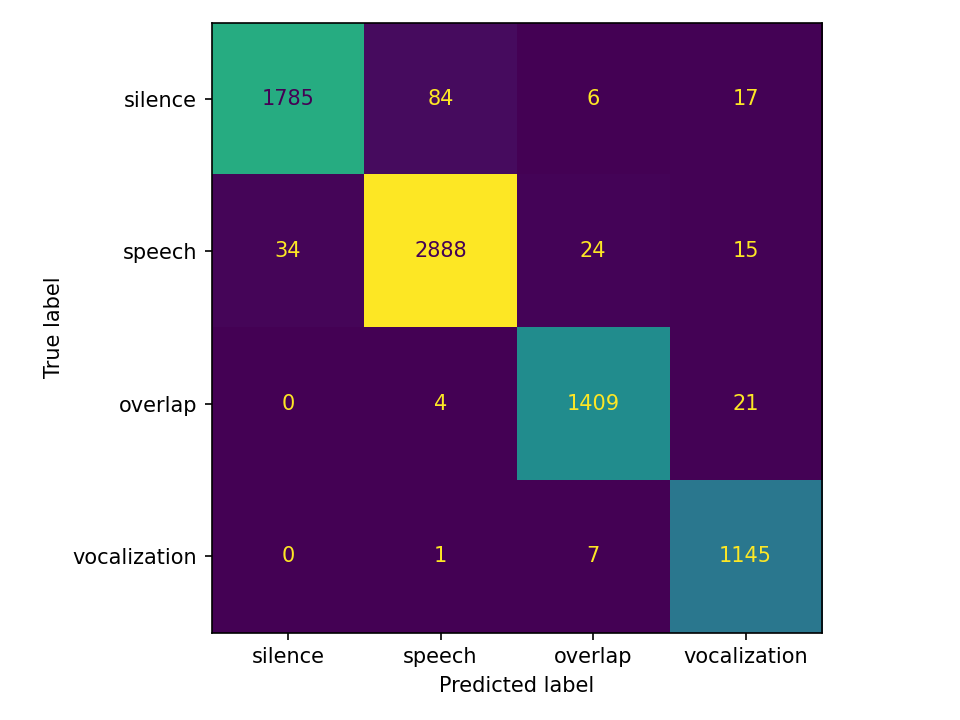
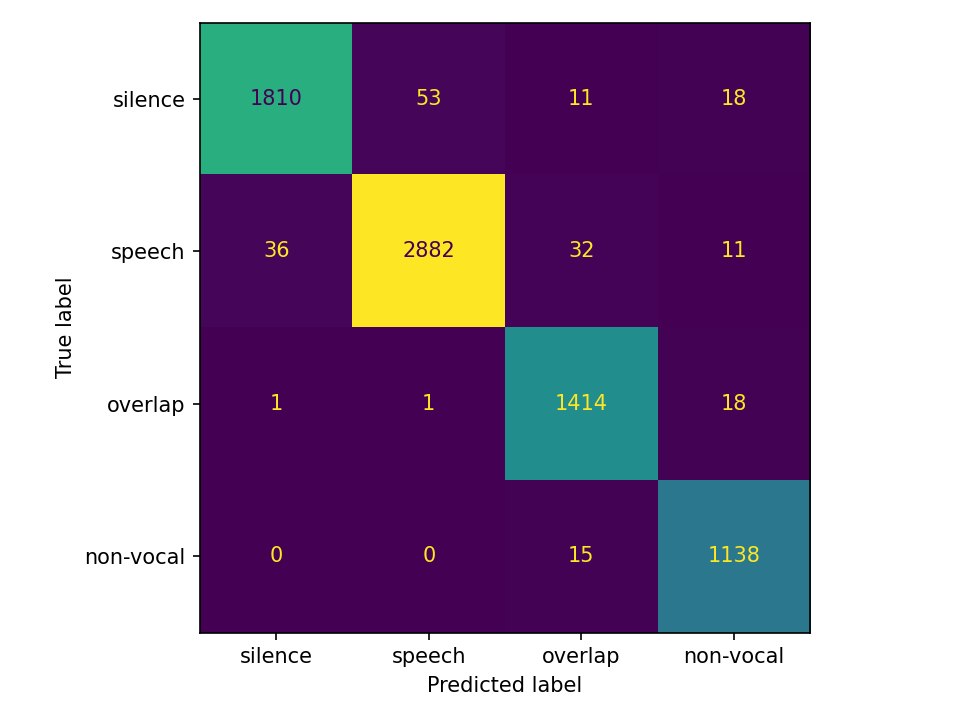
Non-vocal addition + README.md dependencies and evaluation updated

diff --git a/demo.py b/demo.py
@@ -18,10 +18,10 @@ CLASS_COLORS = {
     0: "#1f77b4",  # blue: silence
     1: "#2ca02c",  # green: speech
     2: "#d62728",  # red: overlap
-    3: "#ff7f0e",  # orange: vocalization
+    3: "#ff7f0e",  # orange: non-vocal
 }
 
-CLASS_NAMES = ["silence", "speech", "overlap", "vocalization"]
+CLASS_NAMES = ["silence", "speech", "overlap", "non-vocal"]
 
 
 def load_model(model_path, device):
@@ -79,15 +79,17 @@ def run_inference(audio_path, model, device, sample_rate,
     with torch.no_grad():
         for start in range(0, len(y) - frame_length, hop_length):
             frame = y[start:start + frame_length]
-
-            if np.sqrt(np.mean(frame ** 2)) < 0.001:
+ 
+            if np.sqrt(np.mean(frame ** 2)) < 0.003:
                 context.append(np.zeros(128, dtype=np.float32))
                 predictions.append(0)
                 confidences.append(np.array([1.0, 0.0, 0.0, 0.0]))
-                frame_times.append(start / sample_rate)
                 continue
 
-            features = (extract_features(frame, sr=sample_rate) - mean) / std
+            window = np.hanning(len(frame)).astype(np.float32)
+            frame_windowed = frame * window
+            features = (extract_features(frame_windowed, sr=sample_rate) - mean) / std
+
             context.append(features)
 
             # Stack context window into sequence tensor

diff --git a/ml/labeling/label_ami.py b/ml/labeling/label_ami.py
@@ -8,9 +8,9 @@ from config import SAMPLE_RATE, FRAME_MS
 
 FRAME_SIZE = int(SAMPLE_RATE * FRAME_MS / 1000)  # 480 samples
 
-AMI_AUDIO_DIR = "train_data/audio/ami/amicorpus"
-AMI_WORDS_DIR = "train_data/audio/ami/ami_public_manual_1.6.2/words"
-OUTPUT_CSV    = "train_data/labels/ami_labels.csv"
+AMI_AUDIO_DIR = "training/train_data/audio/ami/amicorpus"
+AMI_WORDS_DIR = "training/train_data/audio/ami/ami_public_manual_1.6.2/words"
+OUTPUT_CSV    = "training/train_data/labels/ami_labels.csv"
 
 MEETINGS = [
     "ES2008a", "ES2008b", "ES2008c", "ES2008d",
@@ -69,7 +69,7 @@ def label_meeting(meeting_id: str) -> list[dict]:
     Label priority:
         overlap      — 2+ speakers have a word active in this frame
         speech       — exactly 1 speaker has a word active
-        vocalization — 1 speaker has a vocalsound, no words active for anyone
+        non-vocal    — 1 speaker or background has a vocalsound, no words active for anyone
         silence      — nothing active
     """
 
@@ -150,7 +150,7 @@ def label_meeting(meeting_id: str) -> list[dict]:
         elif sc == 1:
             label = "speech"
         elif vc >= 1:
-            label = "vocalization"
+            label = "non-vocal"
         else:
             label = "silence"
 
@@ -189,11 +189,11 @@ def run():
         "silence":       3_000,
         "speech":        8_000,
         "overlap":       8_000,   # capped to match speech
-        "vocalization":  3_000,
+        "non-vocal":     3_000,
     }
 
     balanced_parts = []
-    for label in ["silence", "speech", "overlap", "vocalization"]:
+    for label in ["silence", "speech", "overlap", "non-vocal"]:
         subset = df[df["label"] == label]
         if len(subset) == 0:
             print(f"  WARNING: no rows for label '{label}'")

diff --git a/ml/dataset.py b/ml/dataset.py
@@ -1,17 +1,19 @@
 import numpy as np
-import pandas as pd
 import librosa
 import torch
 from torch.utils.data import Dataset
 from pathlib import Path
 from config import SAMPLE_RATE, CONTEXT_FRAMES
 
-LABEL_MAP = {"silence": 0, "speech": 1, "overlap": 2, "vocalization": 3}
+LABEL_MAP = {"silence": 0, "speech": 1, "overlap": 2, "non-vocal": 3}
 N_MFCC = 40
 
 def extract_features(frame: np.ndarray, sr: int = SAMPLE_RATE) -> np.ndarray:
     if frame.dtype != np.float32:
         frame = frame.astype(np.float32) / 32768.0
+
+    window = np.hanning(len(frame)).astype(np.float32)
+    frame = frame * window
 
     mfcc    = librosa.feature.mfcc(y=frame, sr=sr, n_mfcc=N_MFCC, n_fft=480, hop_length=160)
     delta   = librosa.feature.delta(mfcc, mode="nearest")
@@ -24,9 +26,9 @@ def extract_features(frame: np.ndarray, sr: int = SAMPLE_RATE) -> np.ndarray:
     spectral_centroid = np.array([librosa.feature.spectral_centroid(y=frame, sr=sr, n_fft=480, hop_length=160).mean() / sr])
     spectral_rolloff  = np.array([librosa.feature.spectral_rolloff(y=frame, sr=sr, n_fft=480, hop_length=160).mean() / sr])
 
-    # voiced_frac separates speech/vocalization from silence/noise
+    # voiced_frac separates speech/non-vocal from silence/noise
     # f0_mean removed — LibriSpeech has low-variance read-speech F0 that causes
-    # live conversational speech to be misclassified as vocalization
+    # live conversational speech to be misclassified as non-vocal
     f0          = librosa.yin(frame, fmin=75, fmax=400, sr=sr,
                               frame_length=480, hop_length=160)
     voiced      = f0 < 400                                           # yin returns fmax when unvoiced

diff --git a/ml/labeling/merge_labels.py b/ml/labeling/merge_labels.py
@@ -4,18 +4,18 @@ import pandas as pd
 from pathlib import Path
 
 INPUT_CSVS = [
-    "train_data/labels/librispeech_labels.csv",
-    "train_data/labels/ami_labels.csv",
+    "training/train_data/labels/librispeech_labels.csv",
+    "training/train_data/labels/ami_labels.csv",
 ]
 
-OUTPUT_CSV = "train_data/labels/all_labels.csv"
+OUTPUT_CSV = "training/train_data/labels/all_labels.csv"
 
 # Target class distribution for training
 TARGET_FRACTIONS = {
     "silence":       0.25,
     "speech":        0.40,
     "overlap":       0.20,
-    "vocalization":  0.15,
+    "non-vocal":  0.15,
 }
 
 def run():

diff --git a/ml/labeling/label_librispeech.py b/ml/labeling/label_librispeech.py
@@ -14,8 +14,8 @@ ROOT = Path(__file__).resolve().parents[1]
 sys.path.append(str(ROOT))
 
 FRAME_SIZE      = int(SAMPLE_RATE * FRAME_MS / 1000)  # 480 samples
-LIBRISPEECH_DIR = "train_data/audio/librispeech_flat"
-OUTPUT_CSV      = "train_data/labels/librispeech_labels.csv"
+LIBRISPEECH_DIR = "training/train_data/audio/librispeech_flat"
+OUTPUT_CSV      = "training/train_data/labels/librispeech_labels.csv"
 
 vad = webrtcvad.Vad(0)  # aggressiveness 0 — good for clean audio
 

diff --git a/training/precompute_features.py b/training/precompute_features.py
@@ -11,8 +11,8 @@ from ml.dataset import extract_features
 import librosa
 from config import SAMPLE_RATE
 
-LABEL_CSV = "train_data/labels/all_labels.csv"
-AUDIO_DIR = "train_data/audio"
+LABEL_CSV = "training/train_data/labels/all_labels.csv"
+AUDIO_DIR = "training/train_data/audio"
 OUTPUT_DIR = "preprocessed_features"
 
 Path(OUTPUT_DIR).mkdir(exist_ok=True)

diff --git a/training/train.py b/training/train.py
@@ -19,7 +19,7 @@ BATCH_SIZE      = 256
 LR              = 1e-3
 VAL_SPLIT       = 0.15
 
-CLASS_NAMES = ["silence", "speech", "overlap", "vocalization"]
+CLASS_NAMES = ["silence", "speech", "overlap", "non-vocal"]
 
 
 def make_split_loaders(features_path, labels_path, val_split, batch_size):
@@ -66,7 +66,7 @@ def train():
 
     model = VADNet().to(device)
 
-    # [silence, speech, overlap, vocalization]
+    # [silence, speech, overlap, non-vocal]
     weights   = torch.tensor([1.0, 1.0, 1.3, 1.2]).to(device)
     criterion = nn.CrossEntropyLoss(weight=weights, label_smoothing=0.05)
     optimizer = torch.optim.Adam(model.parameters(), lr=LR)

diff --git a/training/evaluate.py b/training/evaluate.py
@@ -13,7 +13,7 @@ from torch.utils.data import DataLoader, random_split
 from ml.dataset import VADDataset
 from ml.model import VADNet
 
-LABEL_NAMES = ["silence", "speech", "overlap", "vocalization"]
+LABEL_NAMES = ["silence", "speech", "overlap", "non-vocal"]
 
 DEFAULT_MODEL = "models/custom_vad.pt"
 DEFAULT_FEATURES = "preprocessed_features/features.npy"

diff --git a/README.md b/README.md
@@ -1,6 +1,6 @@
 # VADNet: Four-Class Conversational Audio Classifier
 
-A lightweight PyTorch model that classifies short audio frames into four conversational categories: **silence**, **speech**, **overlap**, and **vocalization**. Built from scratch as part of a real-time speaker diarization pipeline.
+A lightweight PyTorch model that classifies short audio frames into four conversational categories: **silence**, **speech**, **overlap**, and **non-vocal**. Built from scratch as part of a real-time speaker diarization pipeline.
 
 ---
 
@@ -10,10 +10,10 @@ Most voice activity detectors (VADs) answer a single binary question: *is someon
 
 | Class | Description |
 |---|---|
-| `silence` | No speech activity, background noise, pauses |
+| `silence` | No speech activity, pauses |
 | `speech` | A single speaker talking |
 | `overlap` | Two or more speakers talking simultaneously |
-| `vocalization` | Non-linguistic sounds: laughter, coughing, sneezing |
+| `non-vocal` | Non-linguistic sounds: breathing, tapping, etc. |
 
 This richer labeling feeds directly into a diarization pipeline, where knowing *when* speakers overlap is as important as knowing *who* is speaking.
 
@@ -24,14 +24,18 @@ This richer labeling feeds directly into a diarization pipeline, where knowing *
 ### Evaluation on Held-Out Set
 
 ```
-Overall accuracy:   96.34%
+Overall accuracy:   97.37%
 
 Per-class accuracy:
-  Silence        92.65%  (1753/1892)
-  Speech         96.79%  (2866/2961)
-  Overlap        98.05%  (1406/1434)
-  Vocalization   99.13%  (1143/1153)
+  Silence        95.67%  (1810/1892)
+  Speech         97.33%  (2882/2961)
+  Overlap        98.61%  (1414/1434)
+  non-vocal      99.70%  (1138/1153)
 ```
+
+### Confusion Matrix
+
+![Confusion Matrix](confusion_matrix.png)
 
 ### Best Training Epoch (51/60)
 
@@ -42,14 +46,10 @@ Per-class accuracy:
   Silence        89.3%
   Speech         93.3%
   Overlap        92.8%
-  Vocalization   94.5%
+  non-vocal      94.5%
 ```
 
 Balanced accuracy is reported alongside overall accuracy to penalise models that ignore minority classes. A model that predicts "speech" for everything would score ~40% on overall accuracy but near 25% balanced.
-
-### Confusion Matrix
-
-![Confusion Matrix](confusion_matrix.png)
 
 ### Experiment History
 
@@ -116,7 +116,7 @@ Feature vectors are normalized using mean and std computed from the training set
 ### Dataset
 
 - **LibriSpeech** (`train-clean-100`) — clean read speech, labeled `speech` and `silence`. Augmented with additive noise, MP3 compression simulation, and reverb. Synthetic silence frames (pure zeros and very-low-amplitude noise) generated programmatically to cover truly silent audio.
-- **AMI Meeting Corpus** — multi-speaker meeting room recordings, labeled `speech`, `overlap`, `silence`, and `vocalization`. Overlap detected by counting distinct active speakers per frame using per-speaker word-level annotations.
+- **AMI Meeting Corpus** — multi-speaker meeting room recordings, labeled `speech`, `overlap`, `silence`, and `non-vocal`. Overlap detected by counting distinct active speakers per frame using per-speaker word-level annotations.
 
 ### Inference Energy Gate
 
@@ -130,7 +130,7 @@ Feature vectors are normalized using mean and std computed from the training set
 - **Class-weighted cross-entropy** applies higher loss penalties to minority class misclassifications
 
 ```python
-# Loss weights: [silence, speech, overlap, vocalization]
+# Loss weights: [silence, speech, overlap, non-vocal]
 weights = torch.tensor([1.0, 1.0, 1.3, 1.2])
 criterion = nn.CrossEntropyLoss(weight=weights, label_smoothing=0.05)
 ```
@@ -158,9 +158,9 @@ Applied to training frames only (never validation):
 
 ## Key Design Decisions
 
-- `f0_mean` removed as a feature: LibriSpeech's narrow F0 distribution caused real-world conversational speech to be misclassified as vocalization. `voiced_frac` retained as it is more robust to this distribution shift.
+- `f0_mean` removed as a feature: LibriSpeech's narrow F0 distribution caused real-world conversational speech to be misclassified as non-vocal. `voiced_frac` retained as it is more robust to this distribution shift.
 - `spectral_entropy` and `harmonic_ratio` added specifically to improve overlap discrimination, as two simultaneous speakers produce more chaotic spectra and weaker harmonicity than a single voice.
-- ESC-50 removed entirely: too many spectrally ambiguous categories (breathing, crowd noise, ambient sounds) bleed into silence and speech feature space. Vocalization training data now comes from AMI vocalsound annotations only (laughter, coughing, sneezing).
+- ESC-50 removed entirely: too many spectrally ambiguous categories (breathing, crowd noise, ambient sounds) bleed into silence and speech feature space. non-vocal training data now comes from AMI vocalsound annotations only (laughter, coughing, sneezing).
 - AMI overlap labeling uses per-speaker binary masks before summing across speakers. The naive approach of summing all word events into one counter caused adjacent speaker turns to falsely trigger overlap at boundaries.
 - A 20ms shrink is applied to AMI word boundaries to prevent bleed between consecutive words from different speakers.
 - A causal LSTM with a 7-frame context window (210ms) was added to give the model temporal context across frames. The LSTM reads frame embeddings produced by the shared residual encoder and outputs a context-aware representation used for classification. Frames before the start of a sequence are zero-padded. The LSTM is unidirectional so inference remains causal and real-time compatible.
@@ -174,7 +174,7 @@ four-class-nlp-model/
 ├── ml/
 │   ├── labeling/
 │   │   ├── label_librispeech.py    # Speech + synthetic silence frames
-│   │   ├── label_ami.py            # Speech, overlap, silence, vocalization from AMI
+│   │   ├── label_ami.py            # Speech, overlap, silence, non-vocal from AMI
 │   │   └── merge_labels.py         # Combines CSVs, balances class counts
 │   ├── dataset.py                  # VADDataset, feature extraction
 │   └── model.py                    # VADNet architecture
@@ -211,7 +211,7 @@ four-class-nlp-model/
 ```bash
 python -m venv .venv
 source .venv/bin/activate
-pip install torch librosa numpy pandas tqdm soundfile scipy
+pip install torch librosa numpy pandas tqdm soundfile scipy webrtcvad
 ```
 
 ### Creating Training Data

diff --git a/PLAN.md b/PLAN.md
@@ -13,7 +13,7 @@
 | Silence | 92.65% |
 | Speech | 96.79% |
 | Overlap | 98.05% |
-| Vocalization | 99.13% |
+| non-vocal | 99.13% |
 
 ---
 
@@ -22,14 +22,14 @@
 | Fix | File(s) |
 |---|---|
 | Feature normalization (mean/std saved and applied at train + inference) | `precompute_features.py`, `dataset.py`, `demo.py` |
-| Removed `f0_mean` (caused speech to be misclassified as vocalization) | `dataset.py` |
+| Removed `f0_mean` (caused speech to be misclassified as non-vocal) | `dataset.py` |
 | Added `spectral_entropy` and `harmonic_ratio` for overlap discrimination | `dataset.py` |
 | Energy gate for near-silent frames at inference | `demo.py` |
 | Synthetic silence rows (zeros + low-amplitude noise) in LibriSpeech labeling | `label_librispeech.py` |
 | ESC-50 removed due to spectral ambiguity | `label_esc50.py` removed |
 | AMI overlap fixed: per-speaker binary masks instead of combined counter | `label_ami.py` |
 | AMI word boundary shrink (20ms) to prevent false overlap at turn edges | `label_ami.py` |
-| Vocalization tightened to laughter, coughing, sneezing only | `label_ami.py` |
+| non-vocal tightened to laughter, coughing, sneezing only | `label_ami.py` |
 | Confusion matrix added to evaluate | `evaluate.py` |
 | Noise, MP3 compression, reverb augmentation on LibriSpeech frames | `label_librispeech.py` |
 | ResBlock architecture replacing flat MLP | `model.py` |
@@ -41,16 +41,16 @@
 
 ## Remaining Priorities
 
-### Priority 1 — Energy gate during vocalization labeling
+### Priority 1 — Energy gate during non-vocal labeling
 
-- 190 vocalization frames in the confusion matrix were predicted as silence
-- These are silent gaps inside AMI vocalsound clips being stamped as vocalization
+- 190 non-vocal frames in the confusion matrix were predicted as silence
+- These are silent gaps inside AMI vocalsound clips being stamped as non-vocal
 - Fix: apply the same RMS threshold used in `demo.py` during labeling
 
 ```python
-# In label_ami.py when emitting vocalization rows:
+# In label_ami.py when emitting non-vocal rows:
 rms = np.sqrt(np.mean(frame ** 2))
-label = "vocalization" if rms >= 0.02 else "silence"
+label = "non-vocal" if rms >= 0.02 else "silence"
 ```
 
 - Rerun: `label_ami.py` -> `merge_labels.py` -> `precompute_features.py` -> retrain